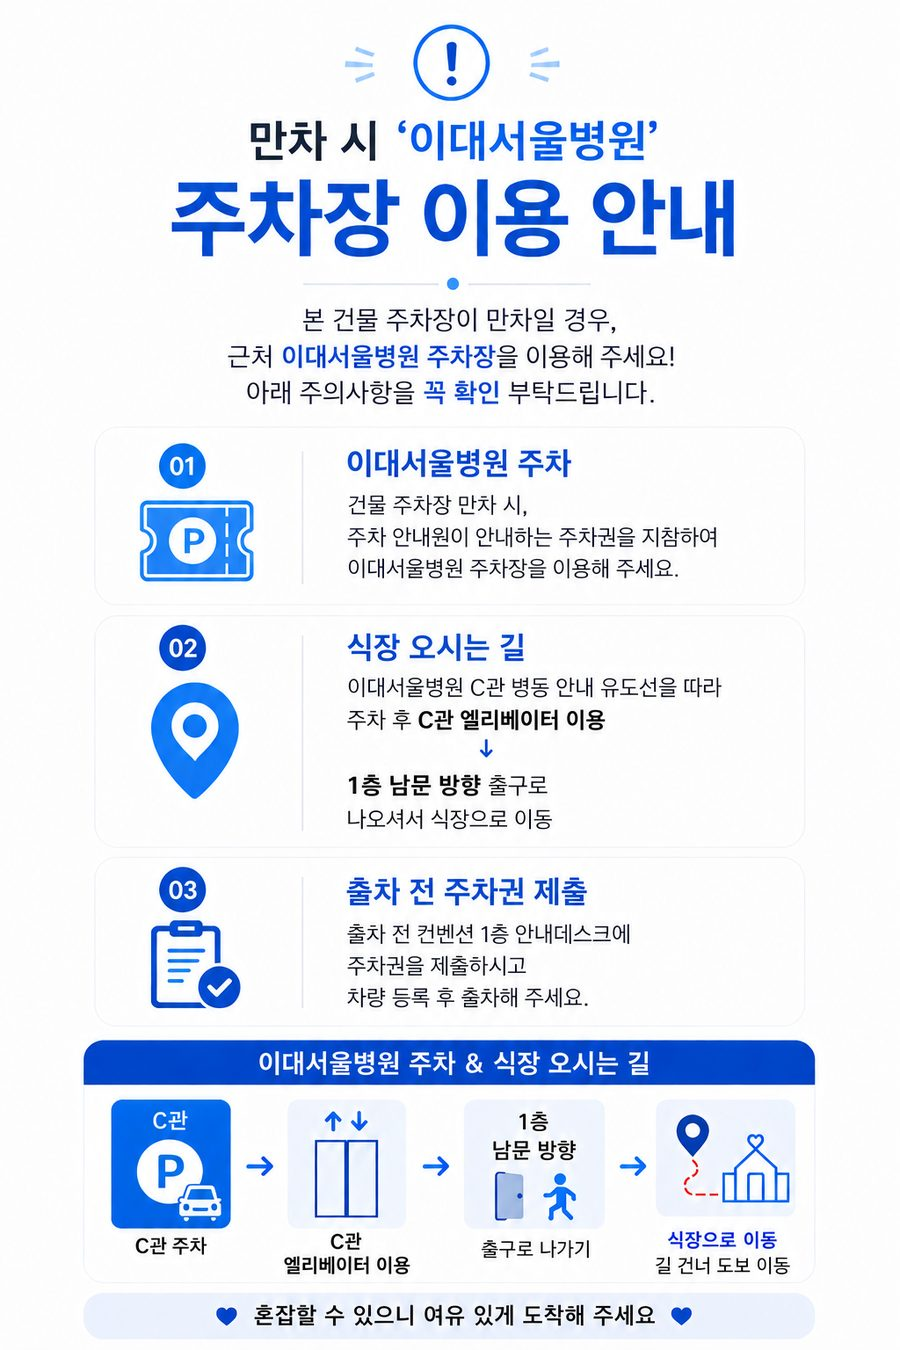
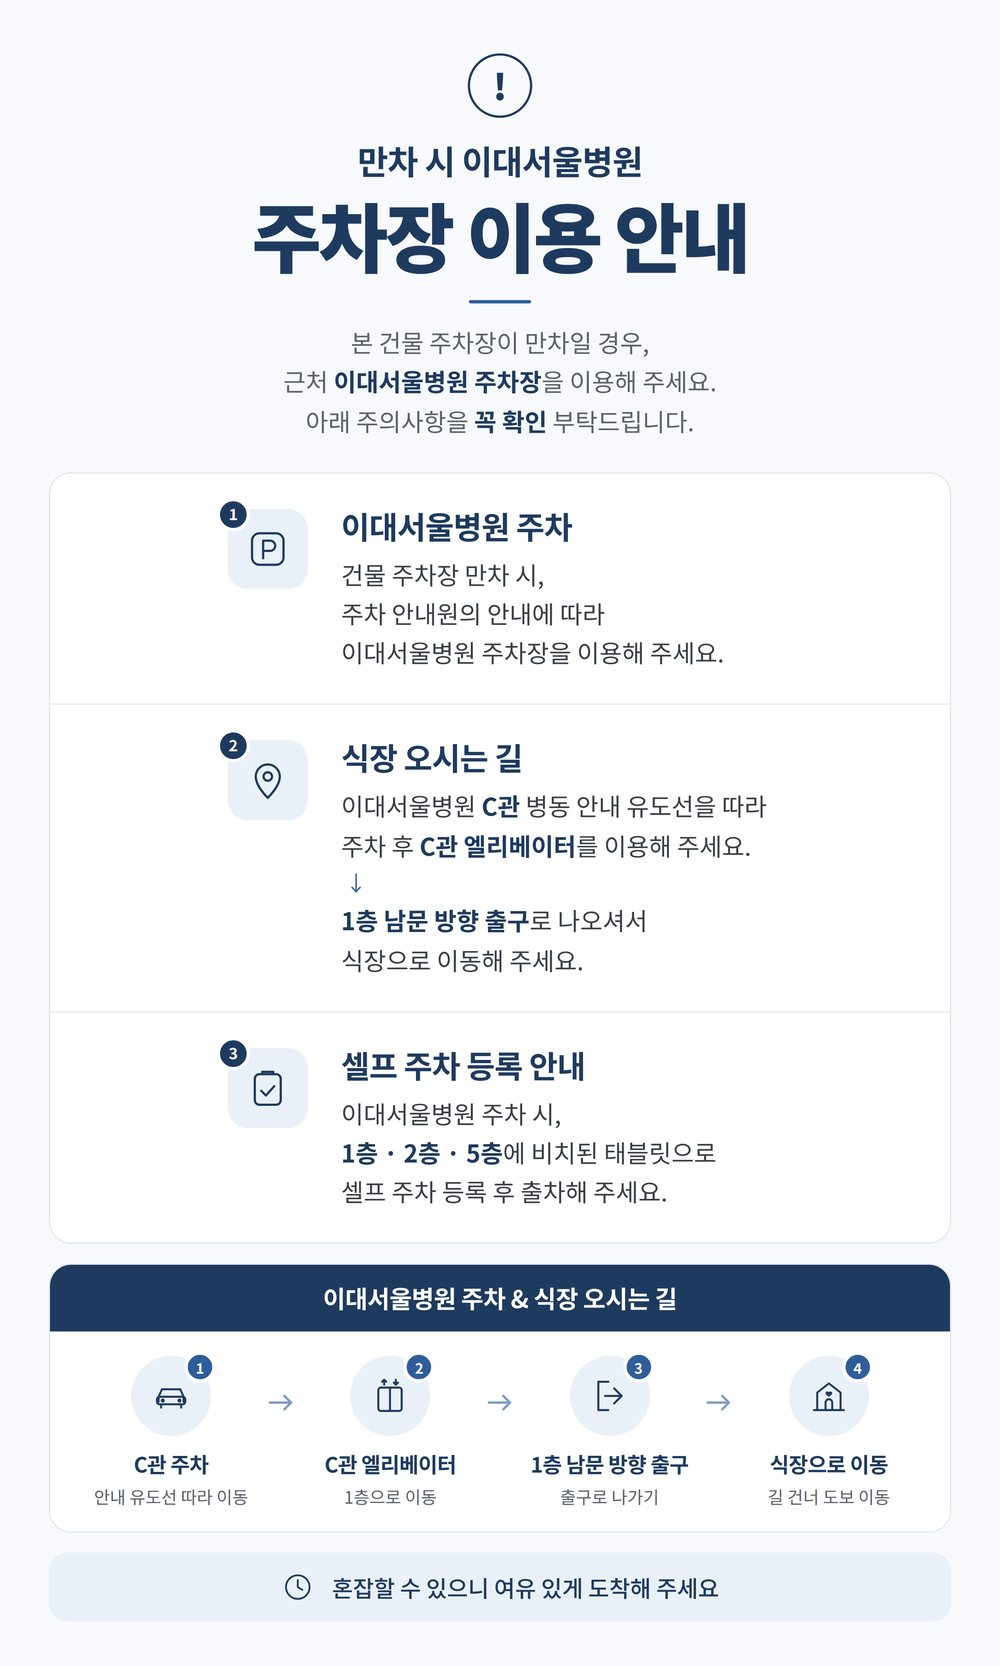
feat: 이대서울병원 주차 안내 이미지·문구를 셀프 주차 등록(태블릿) 안내로 교체
Claude-Session: https://claude.ai/code/session_01T5pJe2bpDBBjsTRri89KsK

diff --git a/web/index.html b/web/index.html
@@ -1011,14 +1011,14 @@
         <h3 style="margin:0 0 10px; font-size:15px;">⚠ 만차 시 '이대서울병원' 주차장 이용 안내</h3>
         <p class="muted" style="margin:0 0 14px;">본 건물 주차장이 만차일 경우, 근처 이대서울병원 주차장을 이용해 주세요! 아래 주의사항을 꼭 확인 부탁드립니다.</p>
 
-        <div class="row" style="align-items:flex-start;"><span>① 이대서울병원 주차</span><span>건물 주차장 만차 시, 주차 안내원이 안내하는 주차권을 지참하여 이대서울병원 주차장을 이용해 주세요.</span></div>
+        <div class="row" style="align-items:flex-start;"><span>① 이대서울병원 주차</span><span>건물 주차장 만차 시, 주차 안내원의 안내에 따라 이대서울병원 주차장을 이용해 주세요.</span></div>
         <div class="row" style="align-items:flex-start;"><span>주차 요금</span><span>2시간 무료 / 30분(기본) 3,000원 / 이후 10분당 1,000원</span></div>
         <div class="row" style="align-items:flex-start;"><span>② 식장 오시는 길</span><span>이대서울병원 C관 병동 안내 유도선을 따라 주차 후 C관 엘리베이터 이용 → 1층 남문 방향 출구로 나오셔서 식장으로 이동</span></div>
-        <div class="row" style="align-items:flex-start;"><span>③ 출차 전 주차권 제출</span><span>출차 전 컨벤션 1층 안내데스크에 주차권을 제출하시고 차량 등록 후 출차해 주세요.</span></div>
+        <div class="row" style="align-items:flex-start;"><span>③ 셀프 주차 등록 안내</span><span>이대서울병원 주차 시, 1층·2층·5층에 비치된 태블릿으로 셀프 주차 등록 후 출차해 주세요.</span></div>
 
         <p class="muted" style="margin:14px 0 0; text-align:center;">💙 혼잡할 수 있으니 여유 있게 도착해 주세요 💙</p>
 
-        <img src="/images/parking-hospital-guide-1.jpg" alt="만차 시 이대서울병원 주차장 이용 안내: 이대서울병원 주차 후 C관 엘리베이터로 1층 남문 방향 출구로 나와 식장으로 이동, 출차 전 컨벤션 1층 안내데스크에 주차권 제출" loading="lazy" style="width:100%; border-radius:14px; margin-top:16px; display:block;">
+        <img src="/images/parking-hospital-guide-1.jpg" alt="만차 시 이대서울병원 주차장 이용 안내: 이대서울병원 주차 후 C관 엘리베이터로 1층 남문 방향 출구로 나와 식장으로 이동, 1층·2층·5층 태블릿으로 셀프 주차 등록 후 출차" loading="lazy" style="width:100%; border-radius:14px; margin-top:16px; display:block;">
       </div>
 
       <div class="card" style="margin-top:14px;">
